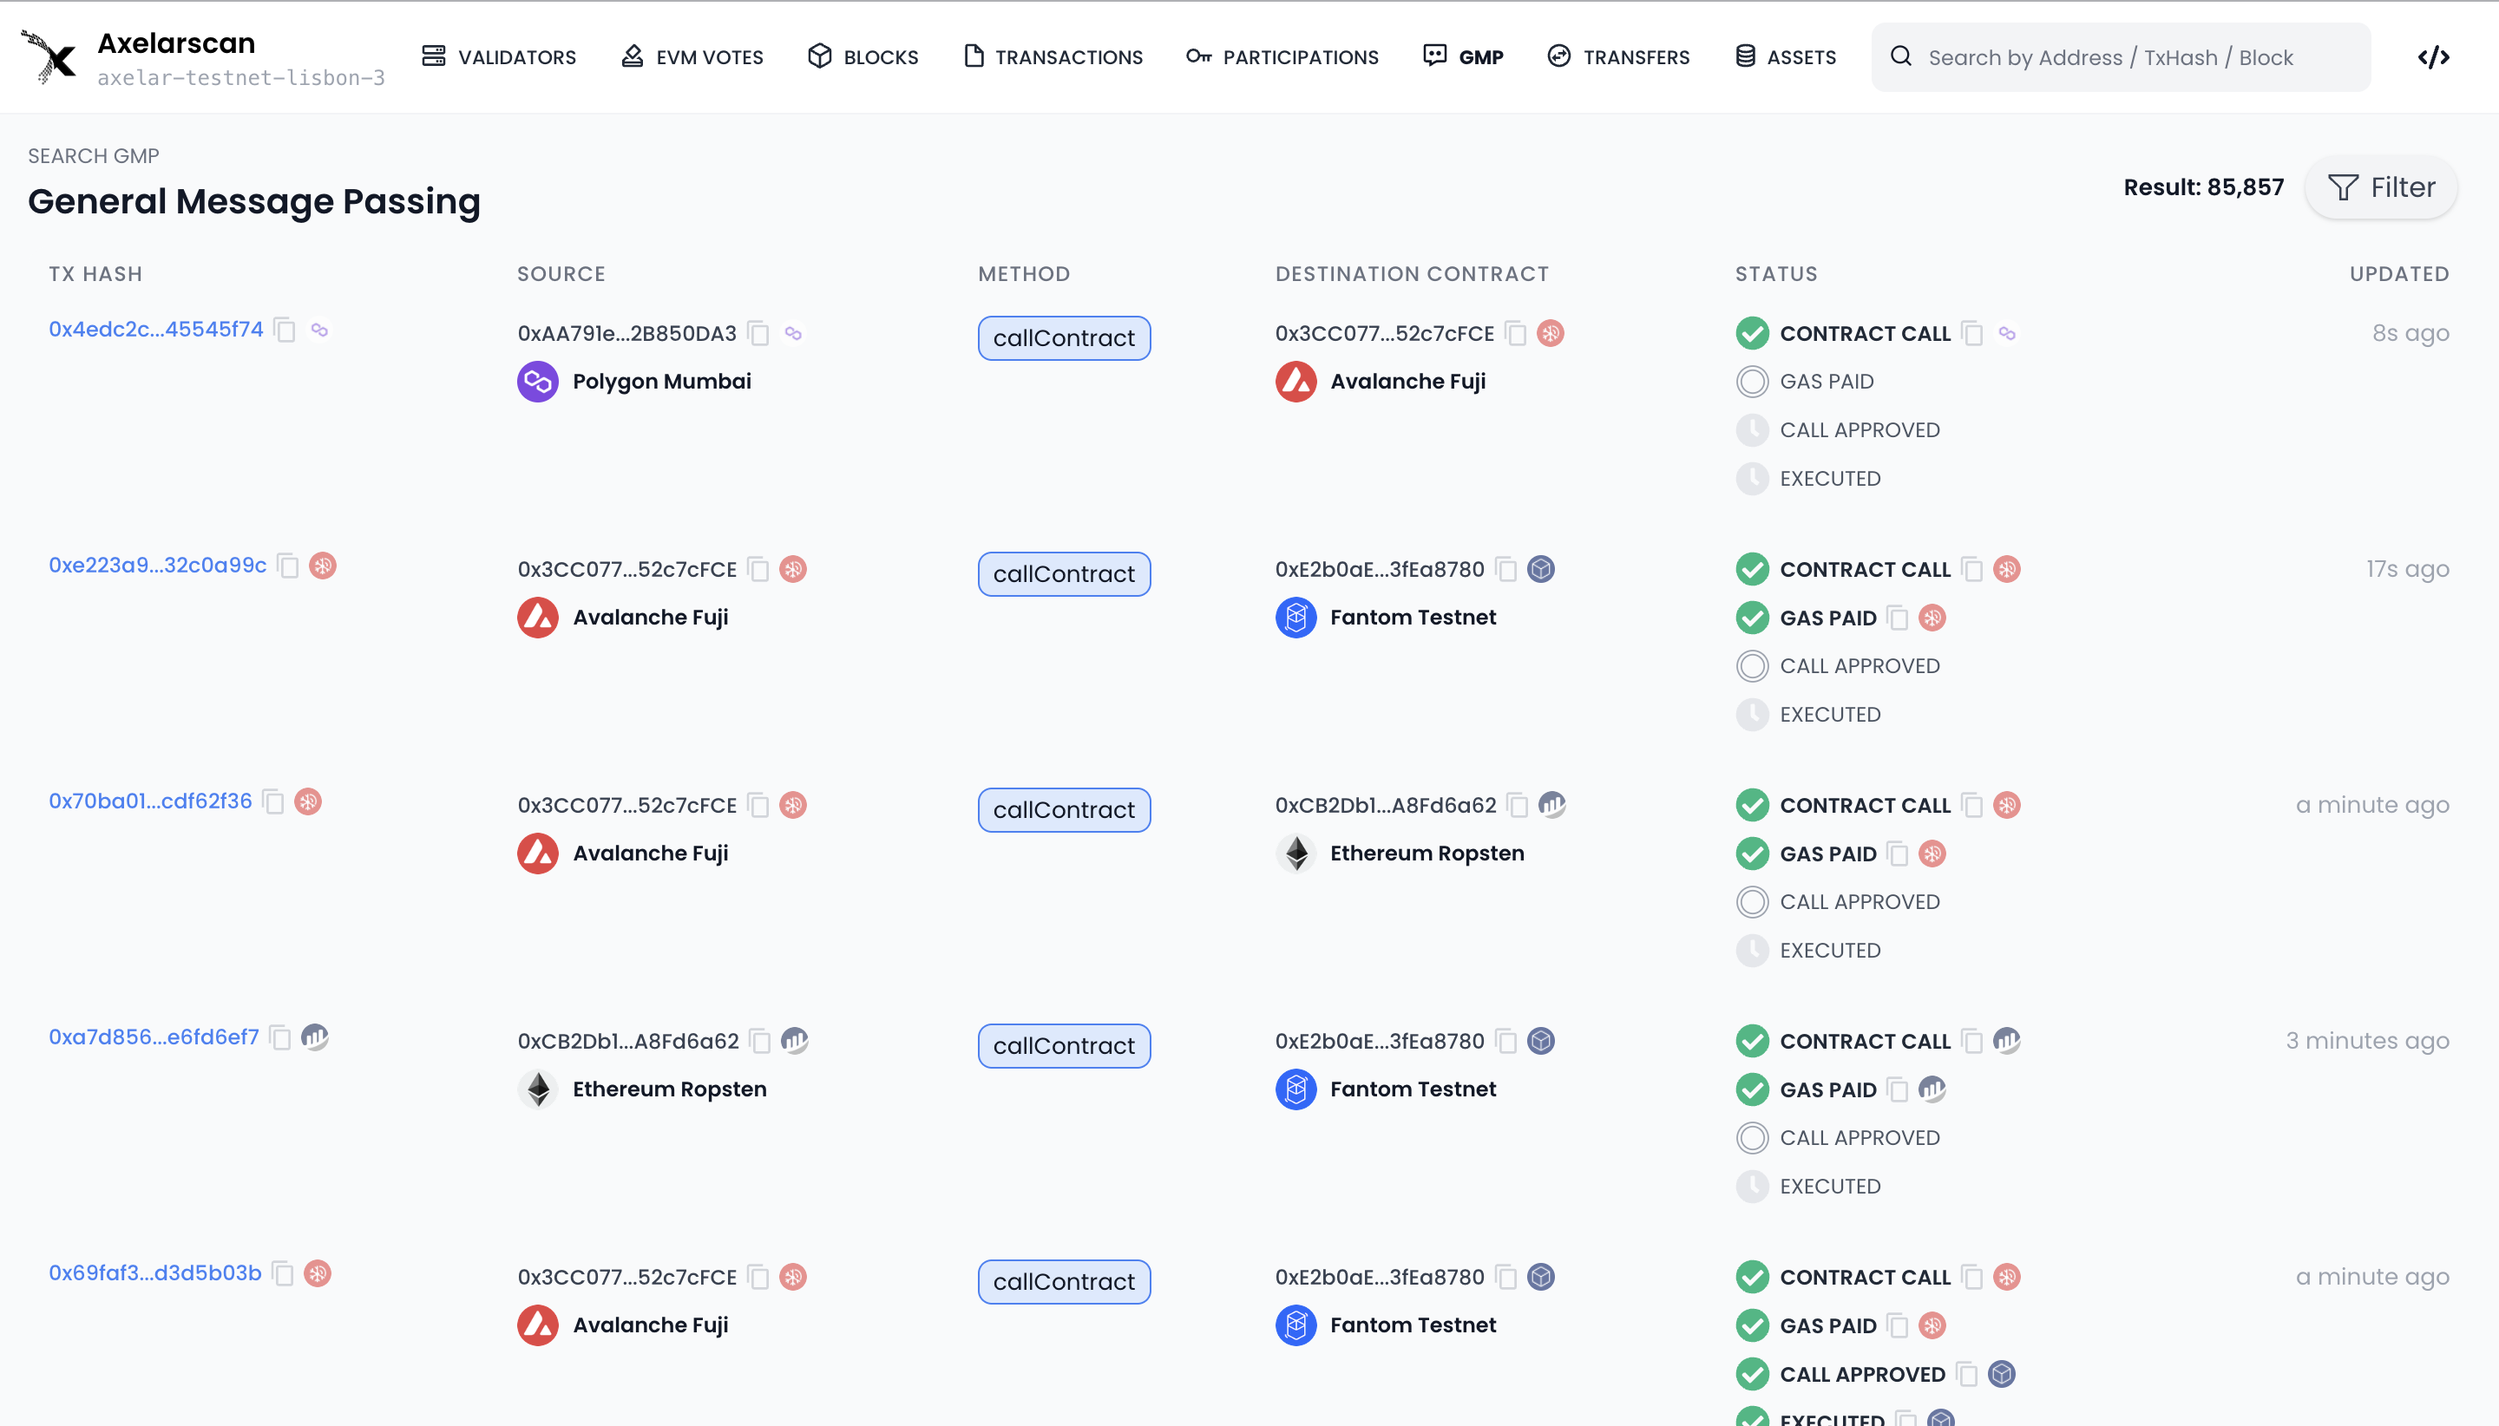
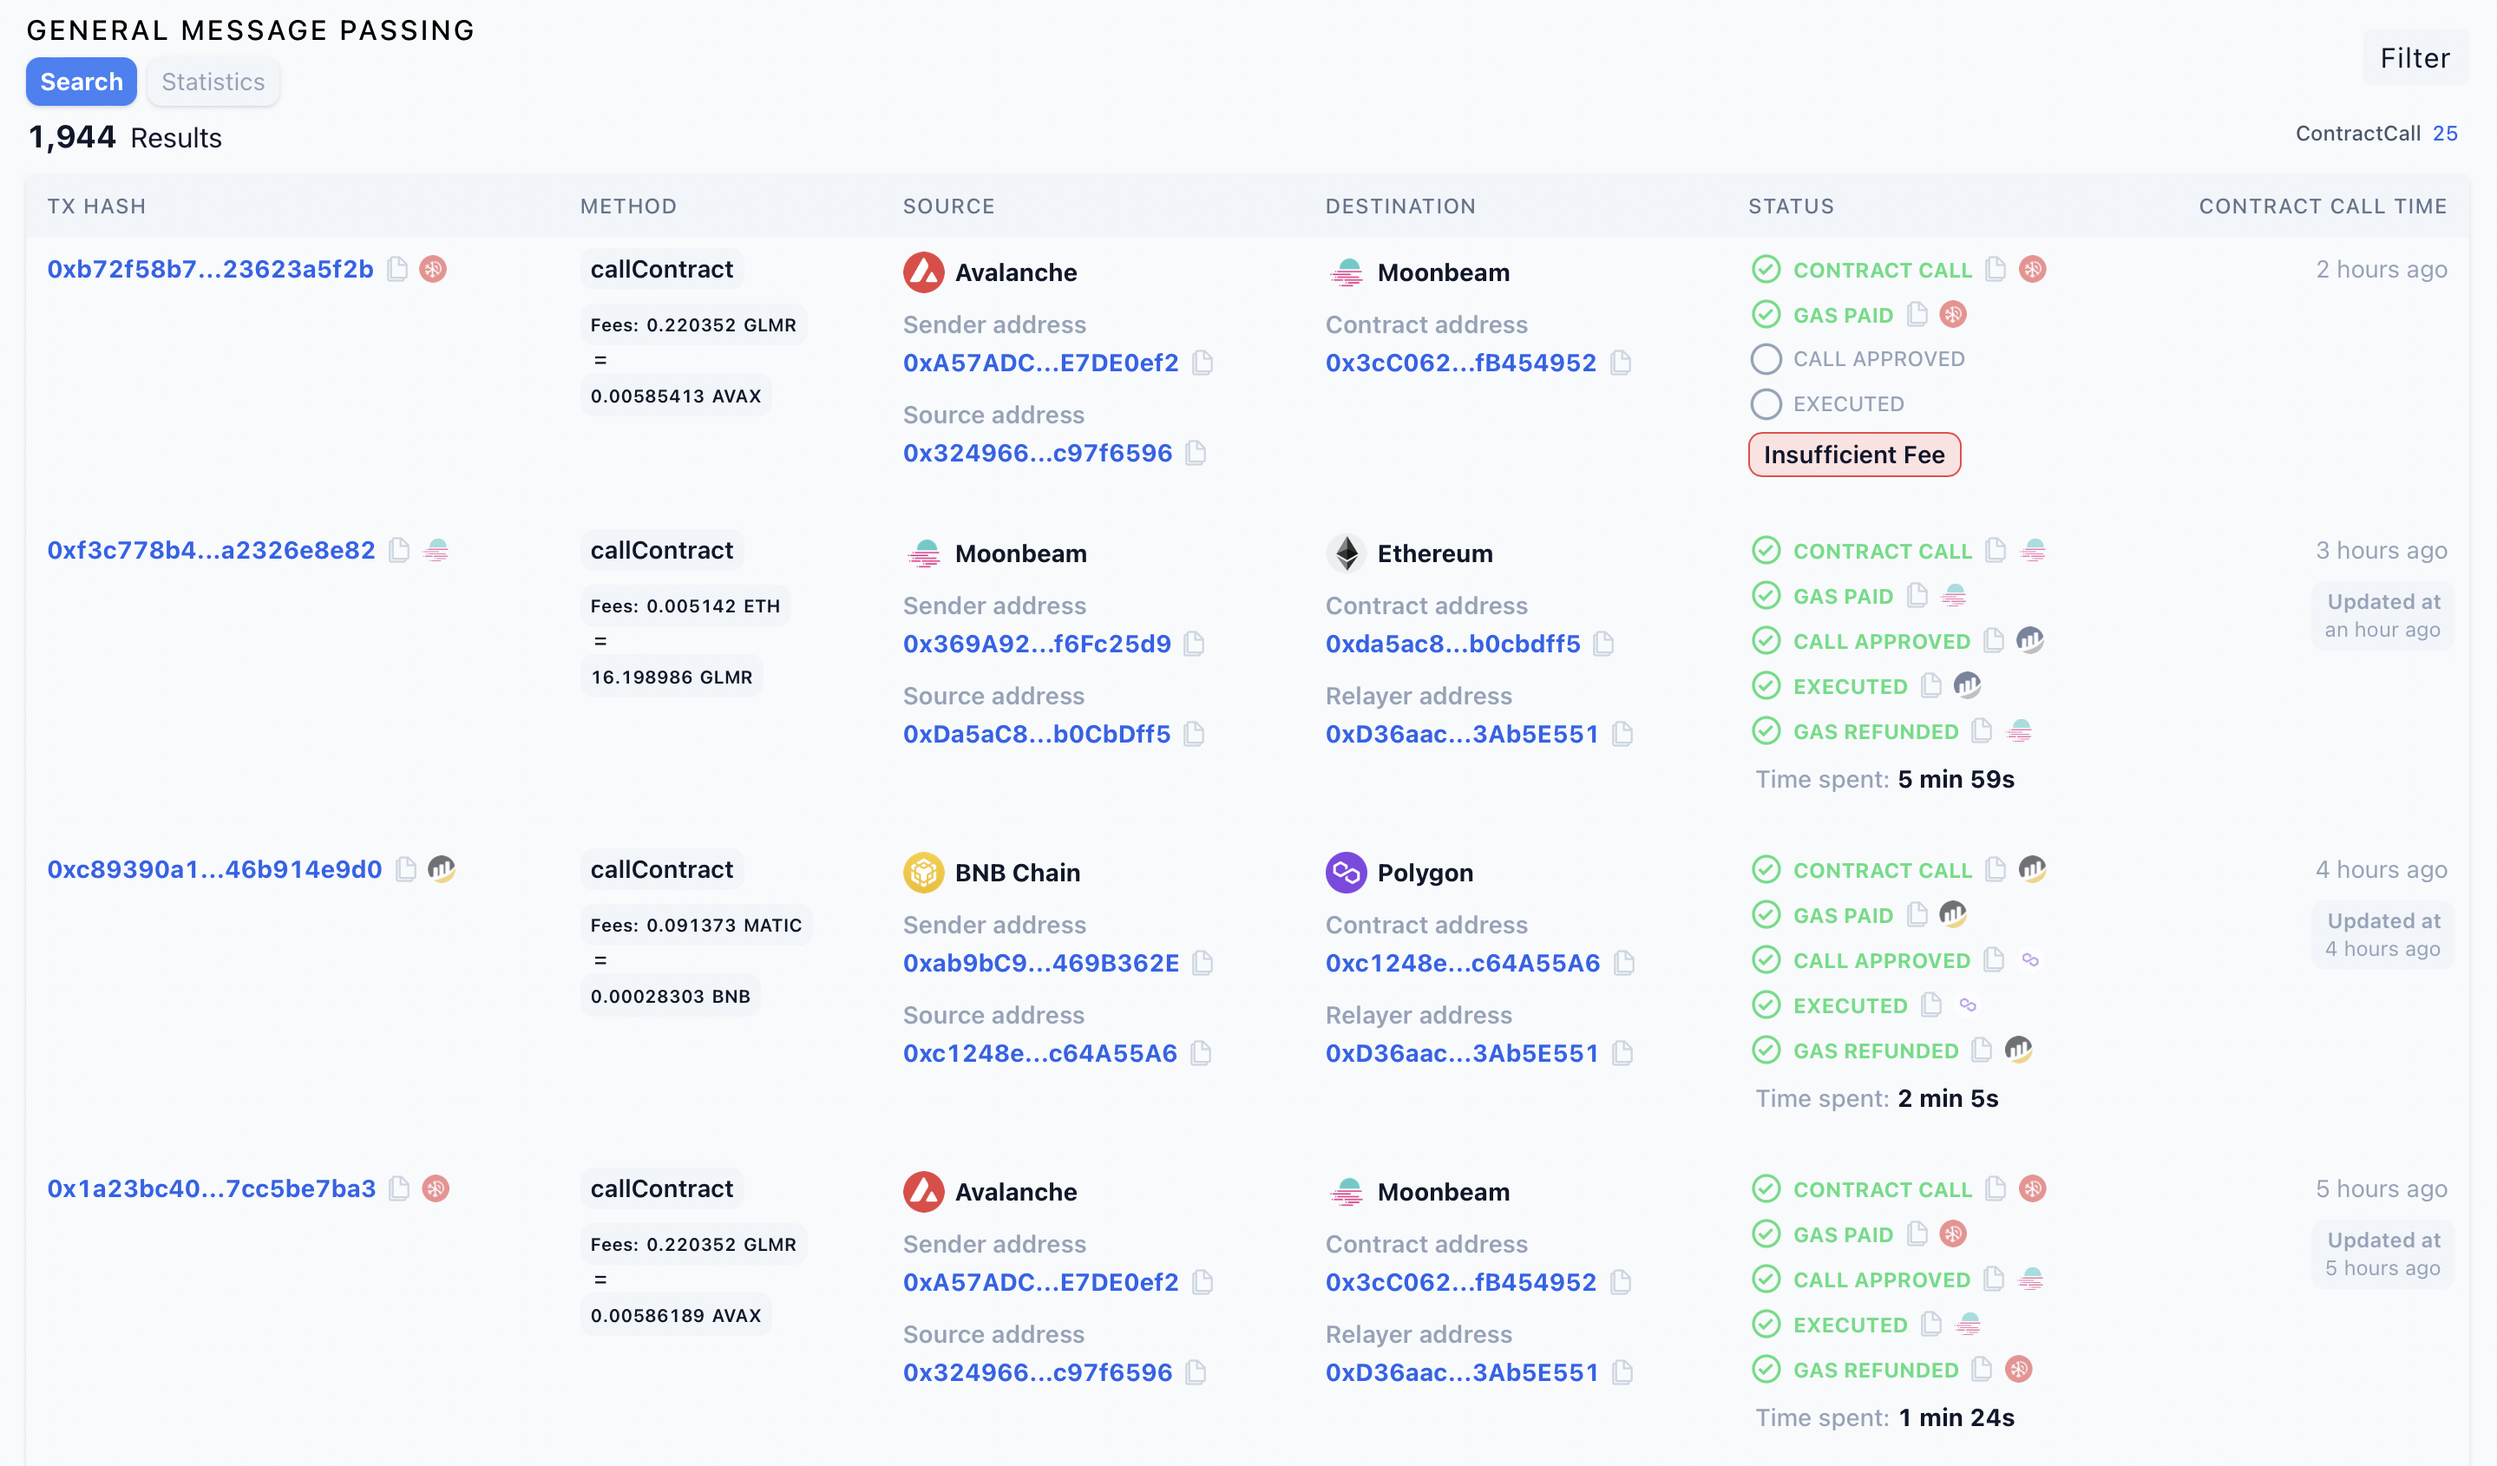
update GMP monitoring, recovery, error message sections (#195)
* update GMP monitoring, recovery, error message sections

* update GMP execution error messages

* update refund / two-way calls sections

* edit a wrong url

diff --git a/pages/dev/debug/error-debugging.md b/pages/dev/debug/error-debugging.md
@@ -2,22 +2,29 @@
 
 import Callout from 'nextra-theme-docs/callout'
 
-Below are some possible errors that could be found in the execution step.
-![execute-errors-example.png](/images/execute-errors-example.png)
-
-<Callout emoji="ℹ">
-  The displayed error is extracted from the data returned by the [Ethers.js](https://github.com/ethers-io/ethers.js/) library, from the data fields `error.error.code` and `error.error.reason`. The displayed error code can be clicked to link to the description of each error code in [Ethers.js's official document](https://docs.ethers.io/v5/api/utils/logger/#errors-ethereum).
-</Callout>
-
 There are two reasons that executions fail:
 
-### 1. Insufficient prepaid gas to execute the transaction
+### 1. Insufficient gas to execute the transaction
+If the prepaid gas is insufficient, you might see `NOT ENOUGH GAS` or other messages indicating the submitted gas is too low to execute, such as ``Insufficient gas for executing the transaction``, ``intrinsic gas too low``, etc.
 
-There are two options to solve this problem.
+
+There are two options to recover the transfer.
 
 1. Manually execute the payload at the destination chain via [Axelarscan UI](../monitor-recover/recovery#manually-execute-a-transfer) or [AxelarJS SDK](/dev/axelarjs-sdk/tx-status-query-recovery#1-execute-manually).
-2. Pay a new gas amount to the Gas Receiver contract on the source chain via [Axelarscan UI](../monitor-recover/recovery#increase-gas-payment-to-the-gas-receiver-on-the-source-chain) or [AxelarJS SDK](/dev/axelarjs-sdk/tx-status-query-recovery#2-increase-gas-payment).
+2. Add more gas to the gas receiver on the source chain via [Axelarscan UI](../monitor-recover/recovery#increase-gas-payment-to-the-gas-receiver-on-the-source-chain) or [AxelarJS SDK](/dev/axelarjs-sdk/tx-status-query-recovery#2-increase-gas-payment).
 
 ### 2. Error in the destination contract logic
+If the error is caused by the destination contract logic, you would see following the error message: 
+```
+Transaction execution was reverted. Please check the implementation of the destination contract's _execute function.
+```
 
 **What to do next:** We suggest debugging your contract and then making a new call. You can try to follow the [Debugging your smart contract](..//debug/debugging-your-smart-contract) guide.
+
+<Callout emoji="ℹ">
+  The error message in `reason:` is extracted from the data returned by the [Ethers.js](https://github.com/ethers-io/ethers.js/) library, from the data fields `error.error.code` and `error.error.reason`. The displayed error code (red tag) can be clicked to link to the description of each error code in [Ethers.js's official document](https://docs.ethers.io/v5/api/utils/logger/#errors-ethereum).
+</Callout>
+
+<Callout emoji="ℹ">
+  If you get `Nonce Expired` or other messages indicating that nonce has already been used. It means that the nonce given in the transaction has already been consumed for the address on a blockchain. This error mostly happens when the same address submits multiple calls in a short period. We suggest you try [manually executing](/dev/monitor-recover/recovery#manually-execute-a-transfer) it once again.
+</Callout>

diff --git a/pages/dev/monitor-recover/monitoring.md b/pages/dev/monitor-recover/monitoring.md
@@ -5,22 +5,28 @@ Axelar provides two options to check each GMP transaction status:
 2. The [AxelarJS SDK](/dev/axelarjs-sdk/tx-status-query-recovery).
 
 ## 1. Axelarscan UI
-Anyone can view a General Message Passing transaction on the GMP page of the Axelarscan block explorer: [Mainnet](https://axelarscan.io/gmp) | [Testnet](https://testnet.axelarscan.io/gmp).
+Anyone can view General Message Passing calls in realtime on Axelarscan: [Mainnet](https://axelarscan.io/gmp) | [Testnet](https://testnet.axelarscan.io/gmp).
 
-![gmp-tracker.png](/images/gmp-tracker-2.png)
+![gmp-tracker.png](/images/gmp-tracker.png)
 
-To search for a particular transfer, enter a transaction hash or a sender address in the search bar. 
+You can also search for a particular transfer by a transaction hash or a sender address via the search bar. 
 ![gmp-searchbar.png](/images/gmp-searchbar.png)
 
-Once you navigate to the detailed transfer page, you will see four main statuses with an additional status, as displayed in the image below.
+Each GMP call comprises five statuses, as described below.
 ![gmp-detailed-page .png](/images/gmp-detailed-page.png)
 
 - **CONTRACT CALL** provides the contract call (`callContract` or `callContractWithToken`) information, including the transaction hash, the block height on the source chain, the gateway address, etc.
-- **GAS PAID** displays the gas prepaid to Axelar Gas Receiver contract.
-- **CALL APPROVED** displays the information on the call approval. This section will be updated once the Axelar network approves the call. 
-- **EXECUTED** informs the execution result whether the execution is successful or not. If it's unsuccessful, there will be an [error message](/dev/gmp/gmp-tracker-recovery/error-debugging) with the cause of the error, displayed in this section. 
-- **GAS REFUNDED** provides the refund information (if any), including the amount of gas paid, the amount of gas used, the refund amount, etc. This information will appear only when there’s a refund.
+- **GAS PAID** displays the information of gas prepaid to Axelar Gas Receiver contract.
+- **CALL APPROVED** displays the information of the call approval. This section will be updated once the GMP call is approved by the Axelar network.
+- **EXECUTED** informs the executed result whether it is successful or not. If you see an error message in this section, we suggest following this [guide](/dev/debug/error-debugging) to find the root cause and recover the transfer.
+- **GAS REFUNDED** provides the refund information (if any), including the amount of gas paid, the amount of gas used, the refund amount, etc.
 
+import Callout from 'nextra-theme-docs/callout'
+
+<Callout emoji="ℹ">
+	If the `Insufficient Fee` tag appears, it means that the prepaid gas is not enough to relay the transaction. Please follow the [Increase gas payment to the gas receiver on the source chain](/dev/monitor-recover/recovery#increase-gas-payment-to-the-gas-receiver-on-the-source-chain) section to recover the transfer.
+	![error-msg-insufficient-fee.png](/images/error-msg-insufficient-fee.png)
+</Callout>
 
 ## 2. AxelarJS SDK
 

diff --git a/pages/dev/gas-services/pay-gas.md b/pages/dev/gas-services/pay-gas.md
@@ -158,13 +158,19 @@ The function names are prety self-explanatory. The following is true for the arg
 ## Two-way call
 The Executor Service supports relaying two-way calls.
 
-A two-way call refers to the scenario of sending a message from a source chain and immediately executing it at a destination chain. Then, finally, return another message call to the source chain.
+A two-way call refers to the scenario of sending a message from a source chain and immediately executing it at a destination chain. Finally, return another message call to the source chain.
 
-Once a two-way call is detected, the Executor Service automatically uses the remaining gas that was prepaid to relay the second call.
 
-If the remaining gas amount is insufficient for the second call, the service refunds it to the payer's address. Users can still pay a new gas amount to relay the second call of the transfer through the [Axelar SDK](/dev/axelarjs-sdk/tx-status-query-recovery#2-increase-gas-payment) or [Axelarscan UI](/dev/monitor-recover/recovery#increase-gas-payment-to-the-gas-receiver-on-the-source-chain).
+```
+Outbound call: a GMP call from chain A to chain B
+Returned call: a GMP call returned from chain B to chain A
+```
+
+Once an outbound call is executed on chain B and sends another call to return a message to chain A, the Executor service automatically forwards the remaining gas to relay the returned trip.
+
+Suppose the remaining gas amount is insufficient for the returned trip, the `Insufficient Fee` tag will show up on Axelarscan UI (see [Monitoring state of GMP transactions](/dev/monitor-recover/monitoring)). In that case, the returned call won't be relayed until the gas is added. You can increase more gas to relay the call to the destination contract via the [Axelar SDK](/dev/axelarjs-sdk/tx-status-query-recovery#2-increase-gas-payment) or [Axelarscan UI](/dev/monitor-recover/recovery#increase-gas-payment-to-the-gas-receiver-on-the-source-chain).
 
 ## Sending messages to multiple destination chains from a single transaction
-The Executor Service also supports relaying multiple message calls from a transaction on a source chain. To do so, the application must pay gas to the Gas Receiver separately for each message. Please see the below message call as an example.  
+The Executor Service also supports relaying multiple message calls from a transaction. To do so, the application must pay gas to the Gas Receiver separately for each message. Please see the below message call as an example.  
 
 Example: [Transaction on the source chain](https://moonbase.moonscan.io/tx/0x25f0bdcdec0da17e1039161342603d3d537cb6ddc6637d1b22dbdf1ebf9706ed), [Message #1 information](https://testnet.axelarscan.io/gmp/0x25f0bdcdec0da17e1039161342603d3d537cb6ddc6637d1b22dbdf1ebf9706ed:1), [Message #2 information](https://testnet.axelarscan.io/gmp/0x25f0bdcdec0da17e1039161342603d3d537cb6ddc6637d1b22dbdf1ebf9706ed:3)

diff --git a/pages/dev/gas-services/refund.md b/pages/dev/gas-services/refund.md
@@ -1,11 +1,11 @@
 # Refund the prepaid gas
 
-The prepaid gas to `payGasForContractCall` or `payGasForContractCallWithToken` could exceed the needed amount for relaying a message to the destination contract.
+The prepaid gas to `payGasForContractCall` or `payGasForContractCallWithToken` could exceed the actual amount needed for relaying a message to the destination contract.
 
-The Executor Service automatically calculates the excess gas submitted and determines the amount to refund.
+The Executor Service automatically tracks the excess gas amount and refund it to the payer's wallet address by calling `Refund` in the Gas Service contract.
 ```
-The refunded amount = The prepaid amount - the actual gas used - the estimated gas for transferring the refund.
+The refunded amount = The total paid amount - the network base fee - the actual gas used - the estimated gas for transferring the refund.
 ```
-After getting the refund amount, the service calls `Refund` in the Gas Receiver contract to refund it to the payer account. Then, the refund status will be shown on Axelarscan UI.
+You can check the refund status on Axelarscan UI. See [Monitoring state of GMP transactions](/dev/monitor-recover/monitoring#1-axelarscan-ui).
 
 ![gmp-gas-refund.png](/images/gmp-gas-refund.png)
